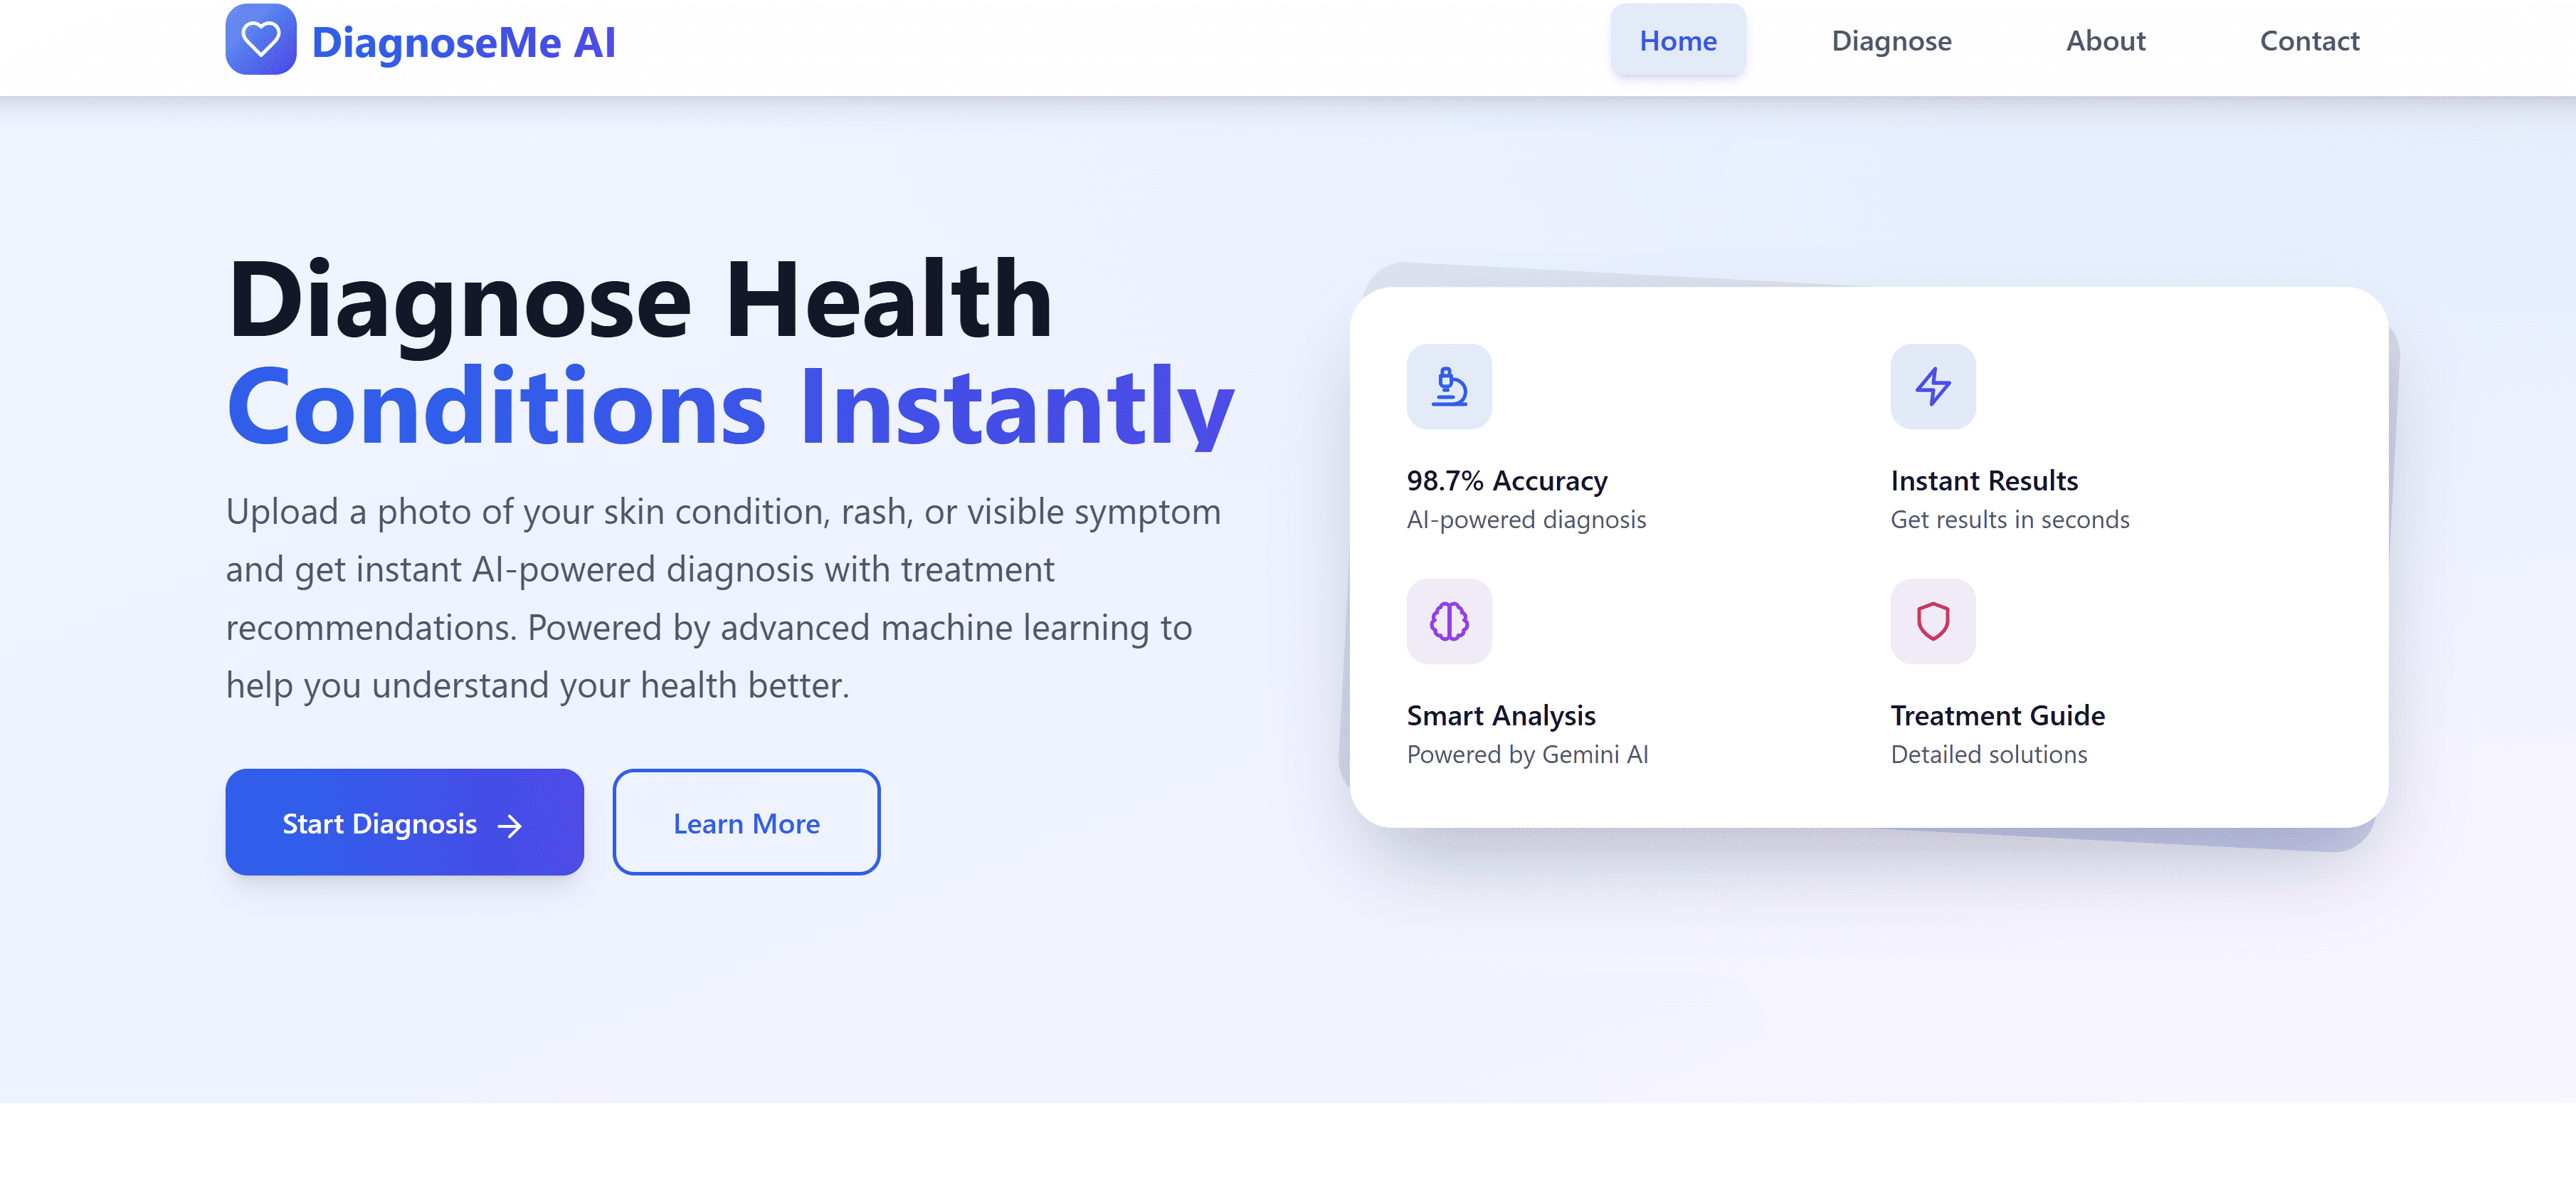
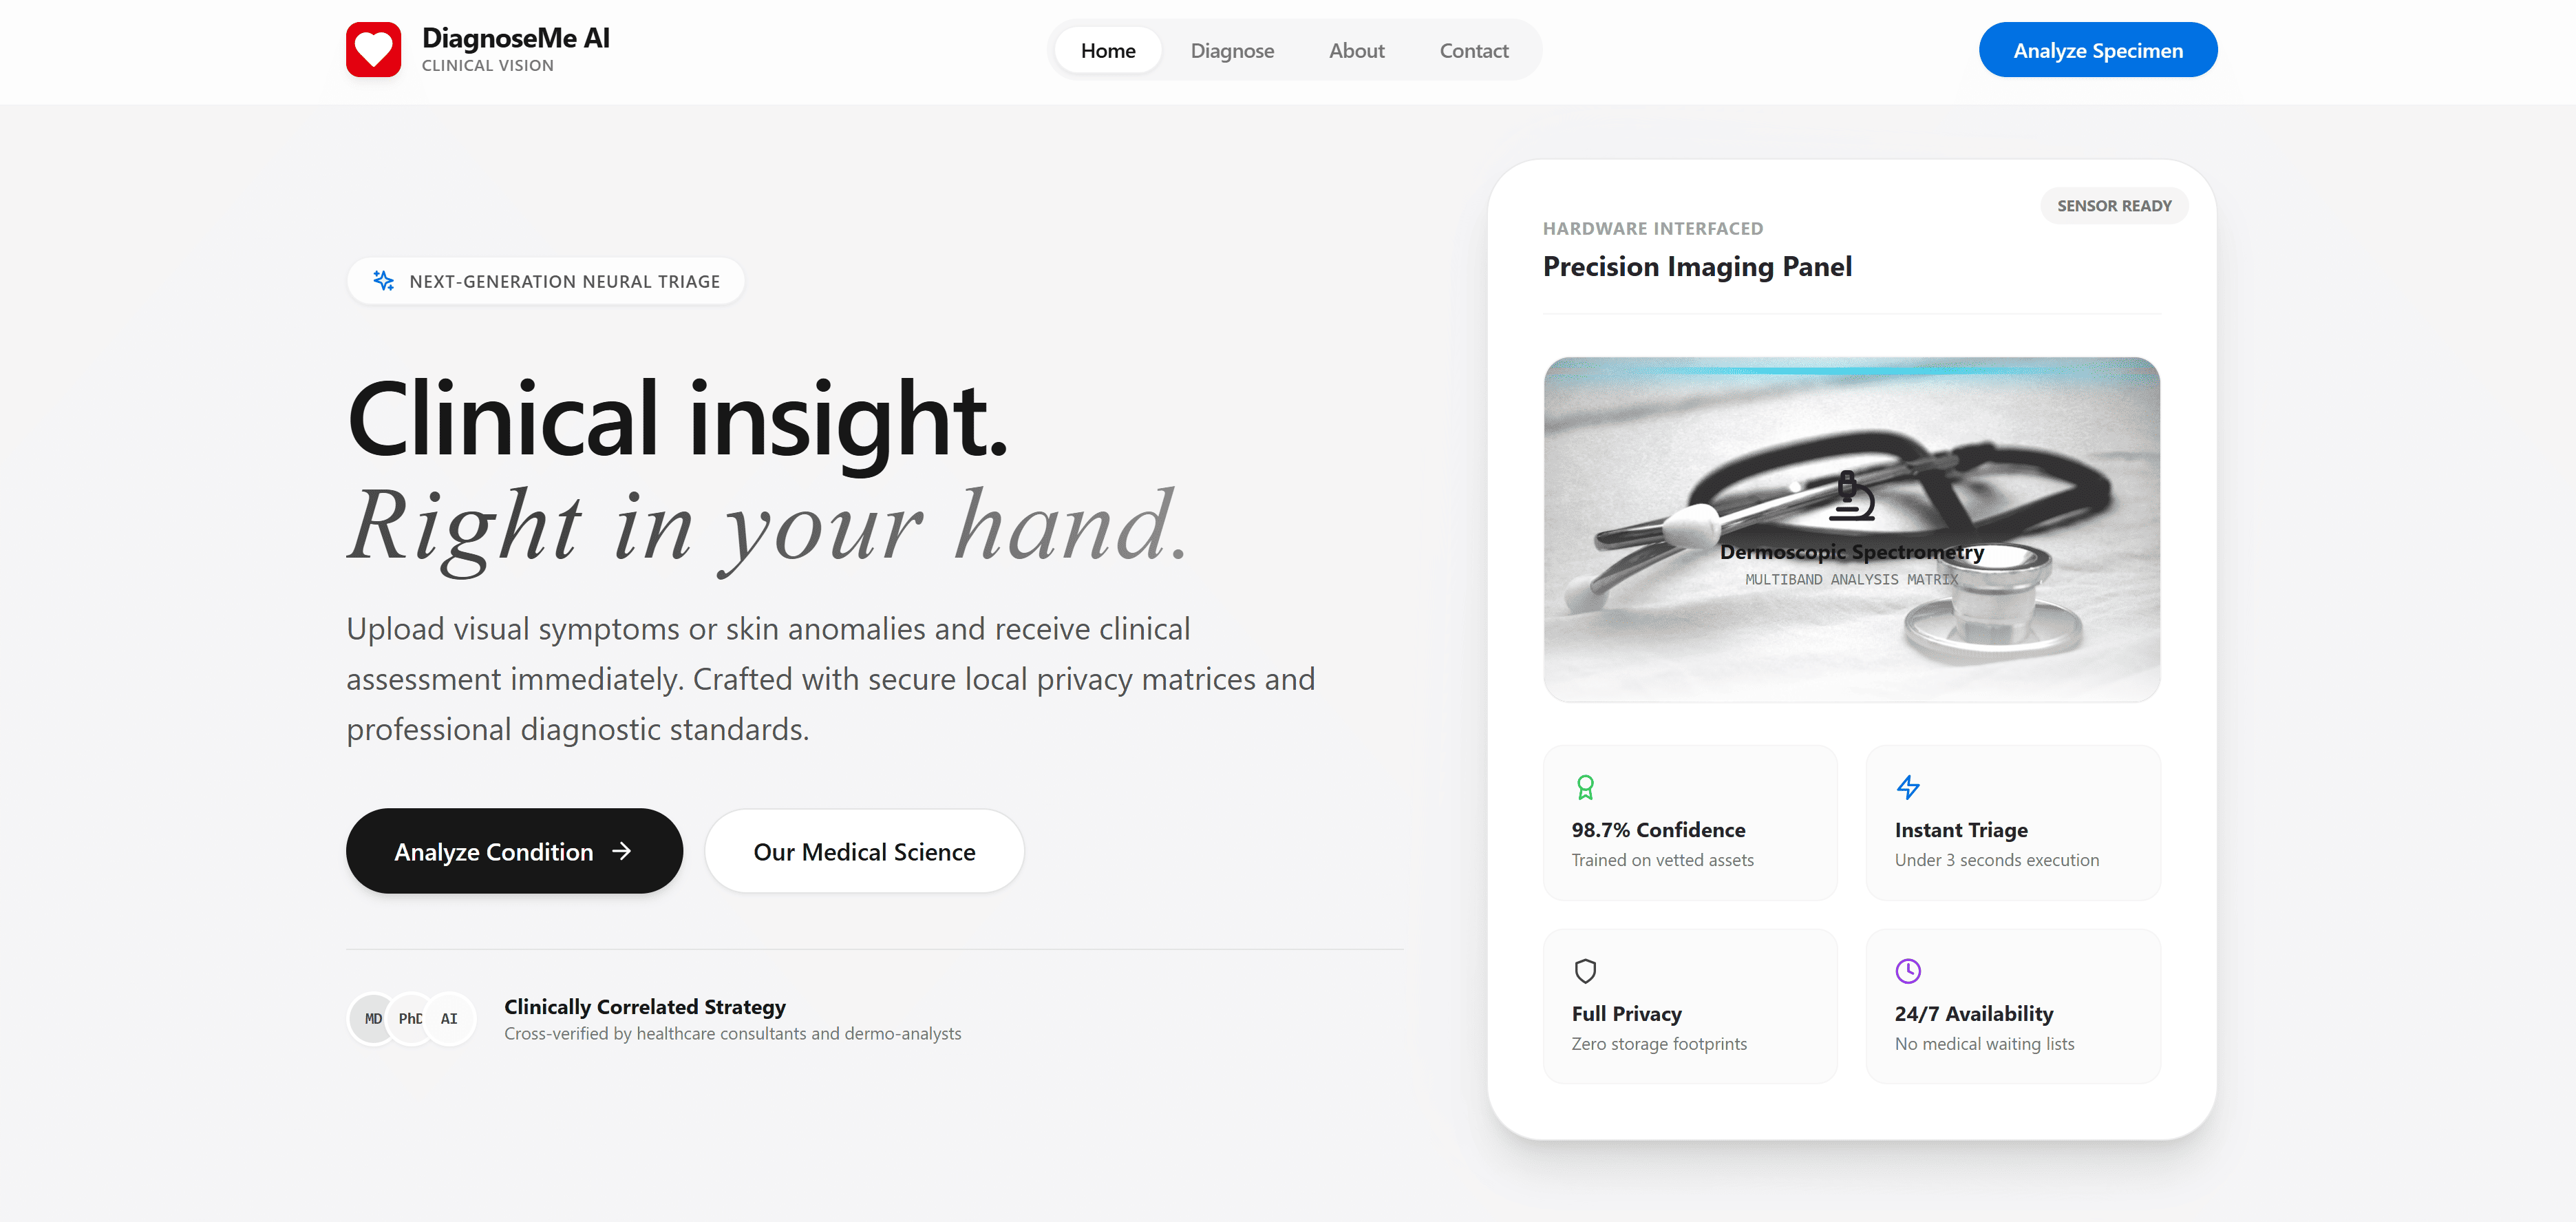
added datas

diff --git a/src/data.ts b/src/data.ts
@@ -146,10 +146,10 @@ export const projectsData: ProjectItem[] = [
     description: "AI-powered health diagnosis system using symptom analysis and Gemini suggestions.",
     detailedDescription: "Diagnose Me analyzes user symptoms and suggests possible medical conditions with intelligent guidance. It combines a clean web interface with AI-backed reasoning and practical workflows for early-stage health awareness.",
     techStack: ["Next.js", "API", "Gemini", "Fine Tuning"],
-    imageUrl: "https://picsum.photos/seed/diagnose-me/400/500",
+    imageUrl: "proj1.png",
     accentColor: "crimson",
     links: {
-      github: "https://github.com"
+      github: "https://github.com/yuva-raj444/diagnoseme"
     },
     keyOutcome: "Built a practical AI workflow for symptom-based analysis and smart recommendations."
   },
@@ -160,10 +160,10 @@ export const projectsData: ProjectItem[] = [
     description: "Multilingual legal assistant with RAG, issue classification, and complaint draft generation.",
     detailedDescription: "A real-world AI legal assistant that answers legal queries in Tamil and English using Retrieval Augmented Generation. It classifies legal issue types, produces complaint drafts, and supports PDF export for practical legal support.",
     techStack: ["FastAPI", "Python", "RAG", "Google Gemini", "FAISS"],
-    imageUrl: "https://picsum.photos/seed/legal-assistant/400/500",
+    imageUrl: "/proj2.png",
     accentColor: "azure",
     links: {
-      github: "https://github.com"
+      github: "https://github.com/yuva-raj444/Needhi"
     },
     keyOutcome: "Enabled multilingual legal guidance with automated drafting and retrieval-based reasoning."
   },
@@ -174,10 +174,10 @@ export const projectsData: ProjectItem[] = [
     description: "Machine learning system that predicts diabetes from patient health metrics.",
     detailedDescription: "This project uses patient metrics such as BMI, glucose level, and related medical history to predict diabetes risk. The model pipeline focuses on reliable preprocessing and practical outputs for easy interpretation.",
     techStack: ["Python", "Random Forest", "Pandas", "NumPy"],
-    imageUrl: "https://picsum.photos/seed/diabetes-predictor/400/500",
+    imageUrl: "/diab.png",
     accentColor: "emerald",
     links: {
-      github: "https://github.com"
+      github: "https://github.com/yuva-raj444/my-first-prediction"
     },
     keyOutcome: "Delivered accurate and interpretable risk prediction from real health data features."
   },
@@ -191,7 +191,7 @@ export const projectsData: ProjectItem[] = [
     imageUrl: "/intrux.png",
     accentColor: "beer",
     links: {
-      github: "https://github.com"
+      github: "https://github.com/yuva-raj444/intrux"
     },
     keyOutcome: "Implemented practical surveillance intelligence with immediate unauthorized motion alerts."
   },
@@ -203,10 +203,10 @@ export const projectsData: ProjectItem[] = [
   detailedDescription:
     "A community-driven news application designed for villages and local communities. Users can share announcements, events, emergency alerts, and important updates in real time. The platform supports multilingual content, Firebase authentication, cloud storage, and instant synchronization to keep residents informed and connected.",
   techStack: ["Flutter", "Dart", "Firebase"],
-  imageUrl: "https://picsum.photos/seed/village-news-app/400/500",
+  imageUrl: "/murasu.png",
   accentColor: "emerald",
   links: {
-    github: "https://github.com"
+    github: "https://github.com/yuva-raj444/mobile-murasu"
   },
   keyOutcome:
     "Enabled real-time community communication with instant news sharing, multilingual support, and cloud-based synchronization."
@@ -283,15 +283,15 @@ export const certificationsData: CertificationItem[] = [
     issuer: "LinkedIn Learning",
     date: "2023",
     credentialId: "LI-GENAI-2023",
-    badgeType: "bronze"
+    badgeType: "gold"
   },
   {
     id: "c5",
-    title: "Data Analytics Job Simulation",
-    issuer: "Deloitte Australia",
-    date: "2025",
-    credentialId: "DEL-DA-2025",
-    badgeType: "bronze"
+    title: "Cloud Computing Engineering (Azure / AWS)",
+    issuer: "Wipro",
+    date: "2026",
+    credentialId: "CL-COM-2026",
+    badgeType: "gold"
   }
 ];
 

diff --git a/src/components/Contact.tsx b/src/components/Contact.tsx
@@ -103,13 +103,13 @@ export default function Contact() {
                 <div className="flex gap-3 items-center">
                   <MapPin className="w-4 h-4 text-yellow-300 shrink-0" />
                   <span className="font-mono text-xs text-zinc-300 uppercase tracking-widest">
-                    LOCATION: BANGALORE, INDIA
+                    LOCATION: CHENNAI, INDIA
                   </span>
                 </div>
                 <div className="flex gap-3 items-center">
                   <Mail className="w-4 h-4 text-yellow-300 shrink-0" />
                   <span className="font-mono text-xs text-zinc-300 select-all">
-                    EMAIL: [email redacted]
+                    EMAIL: [email redacted]
                   </span>
                 </div>
                 <div className="flex gap-3 items-center">

diff --git a/index.html b/index.html
@@ -3,7 +3,7 @@
   <head>
     <meta charset="UTF-8" />
     <meta name="viewport" content="width=device-width, initial-scale=1.0" />
-    <title>My Google AI Studio App</title>
+    <title>Yuvaraj's Portfolio</title>
   </head>
   <body>
     <div id="root"></div>